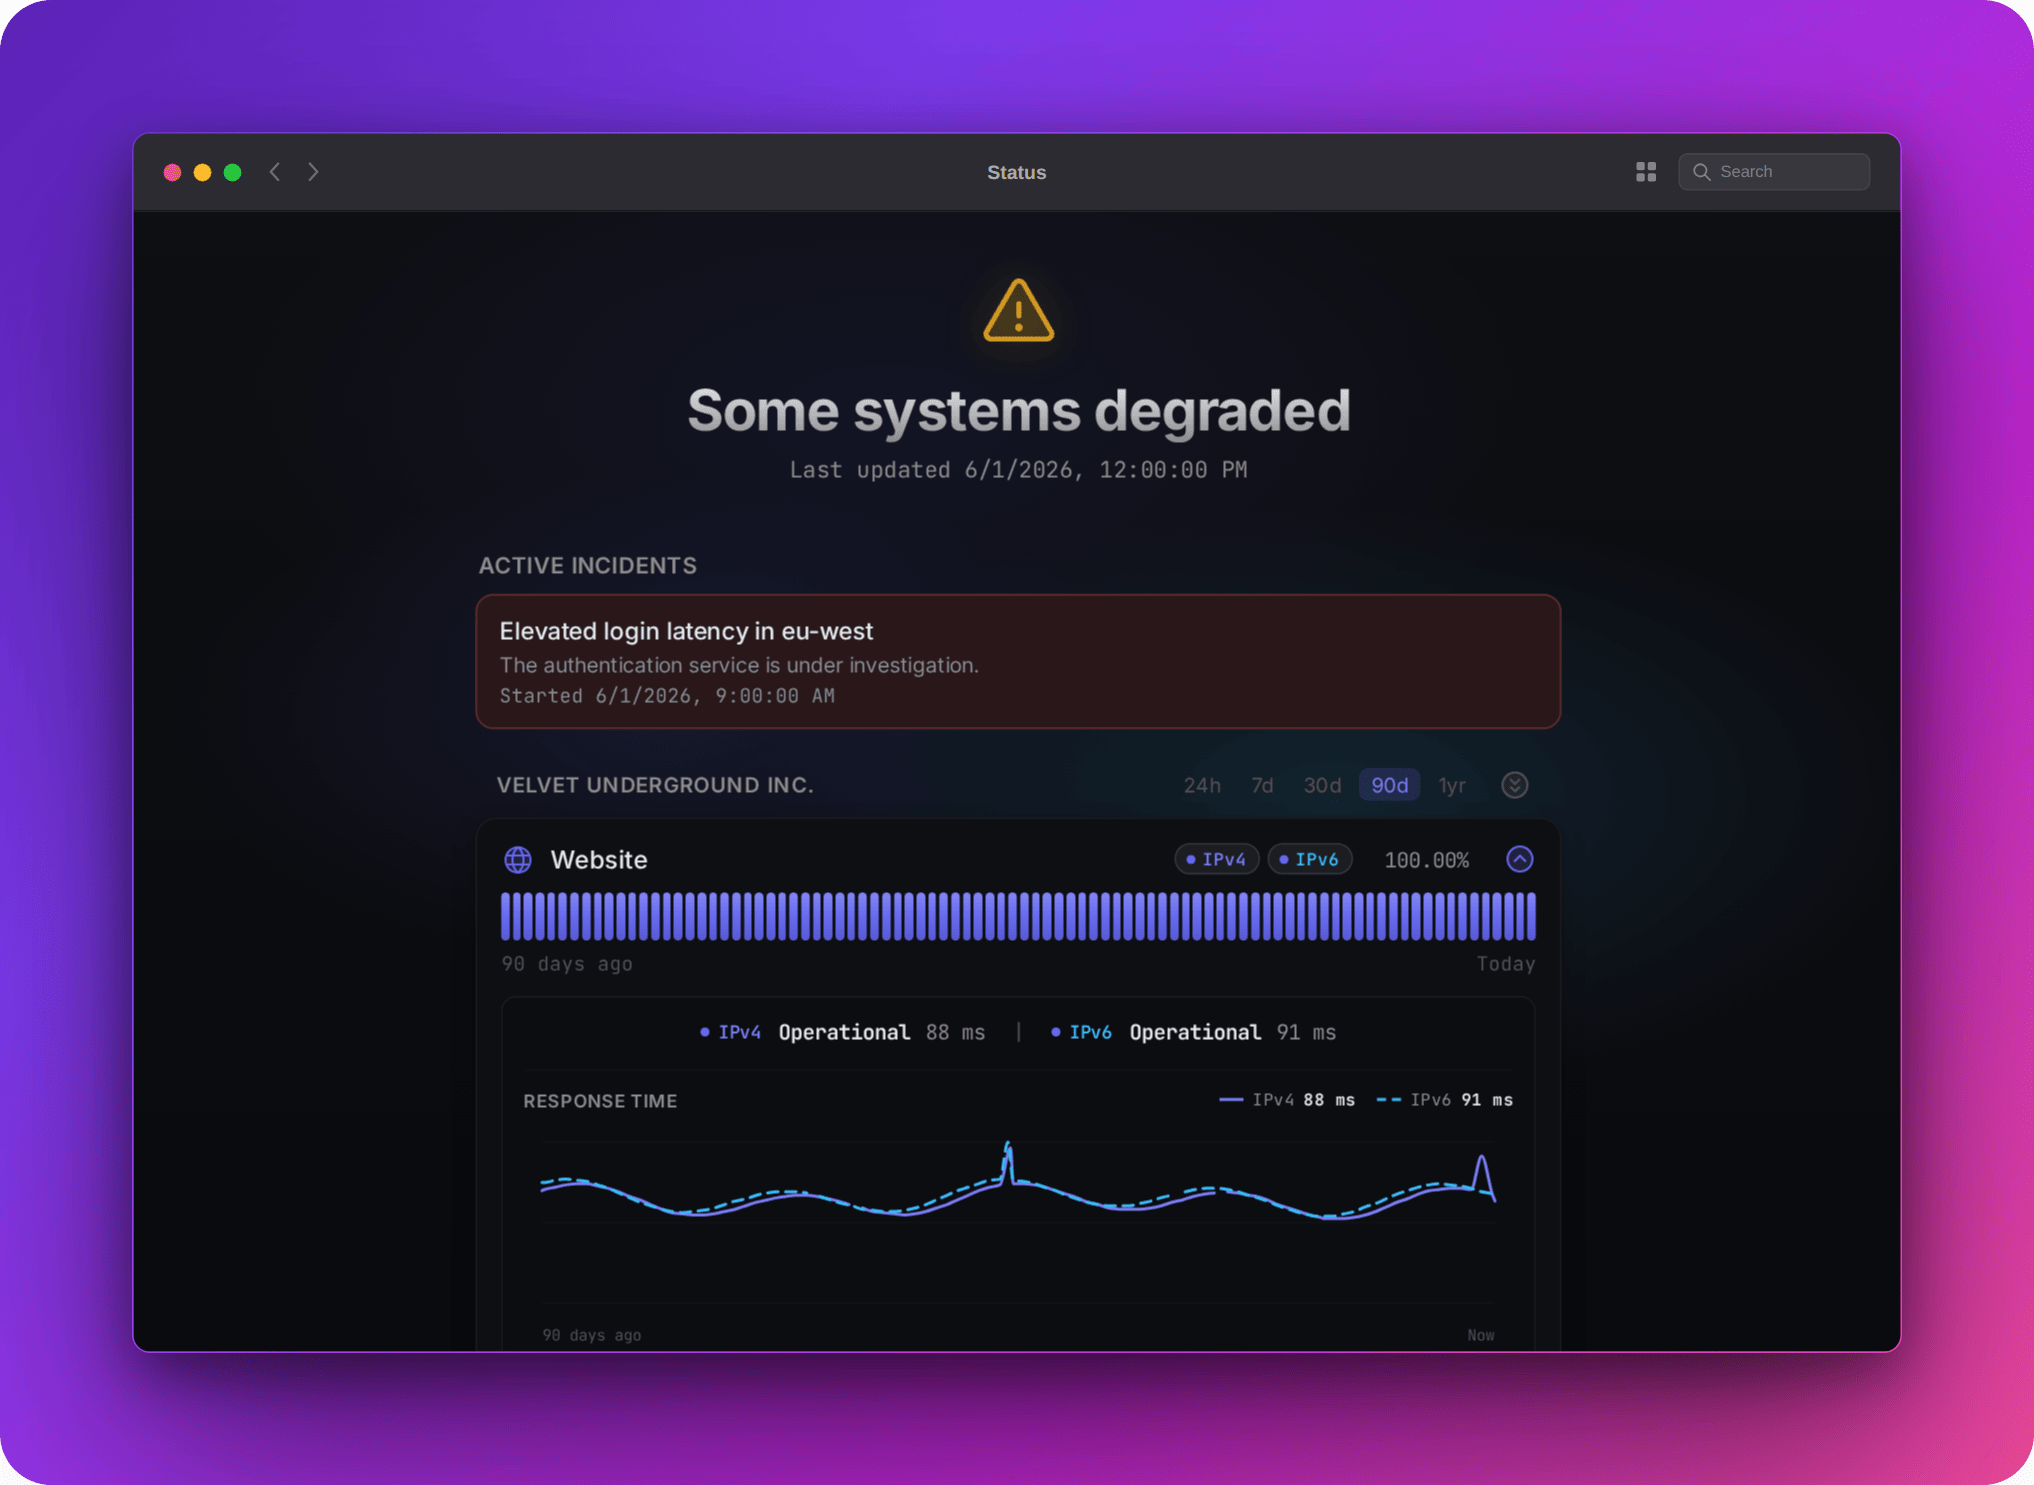
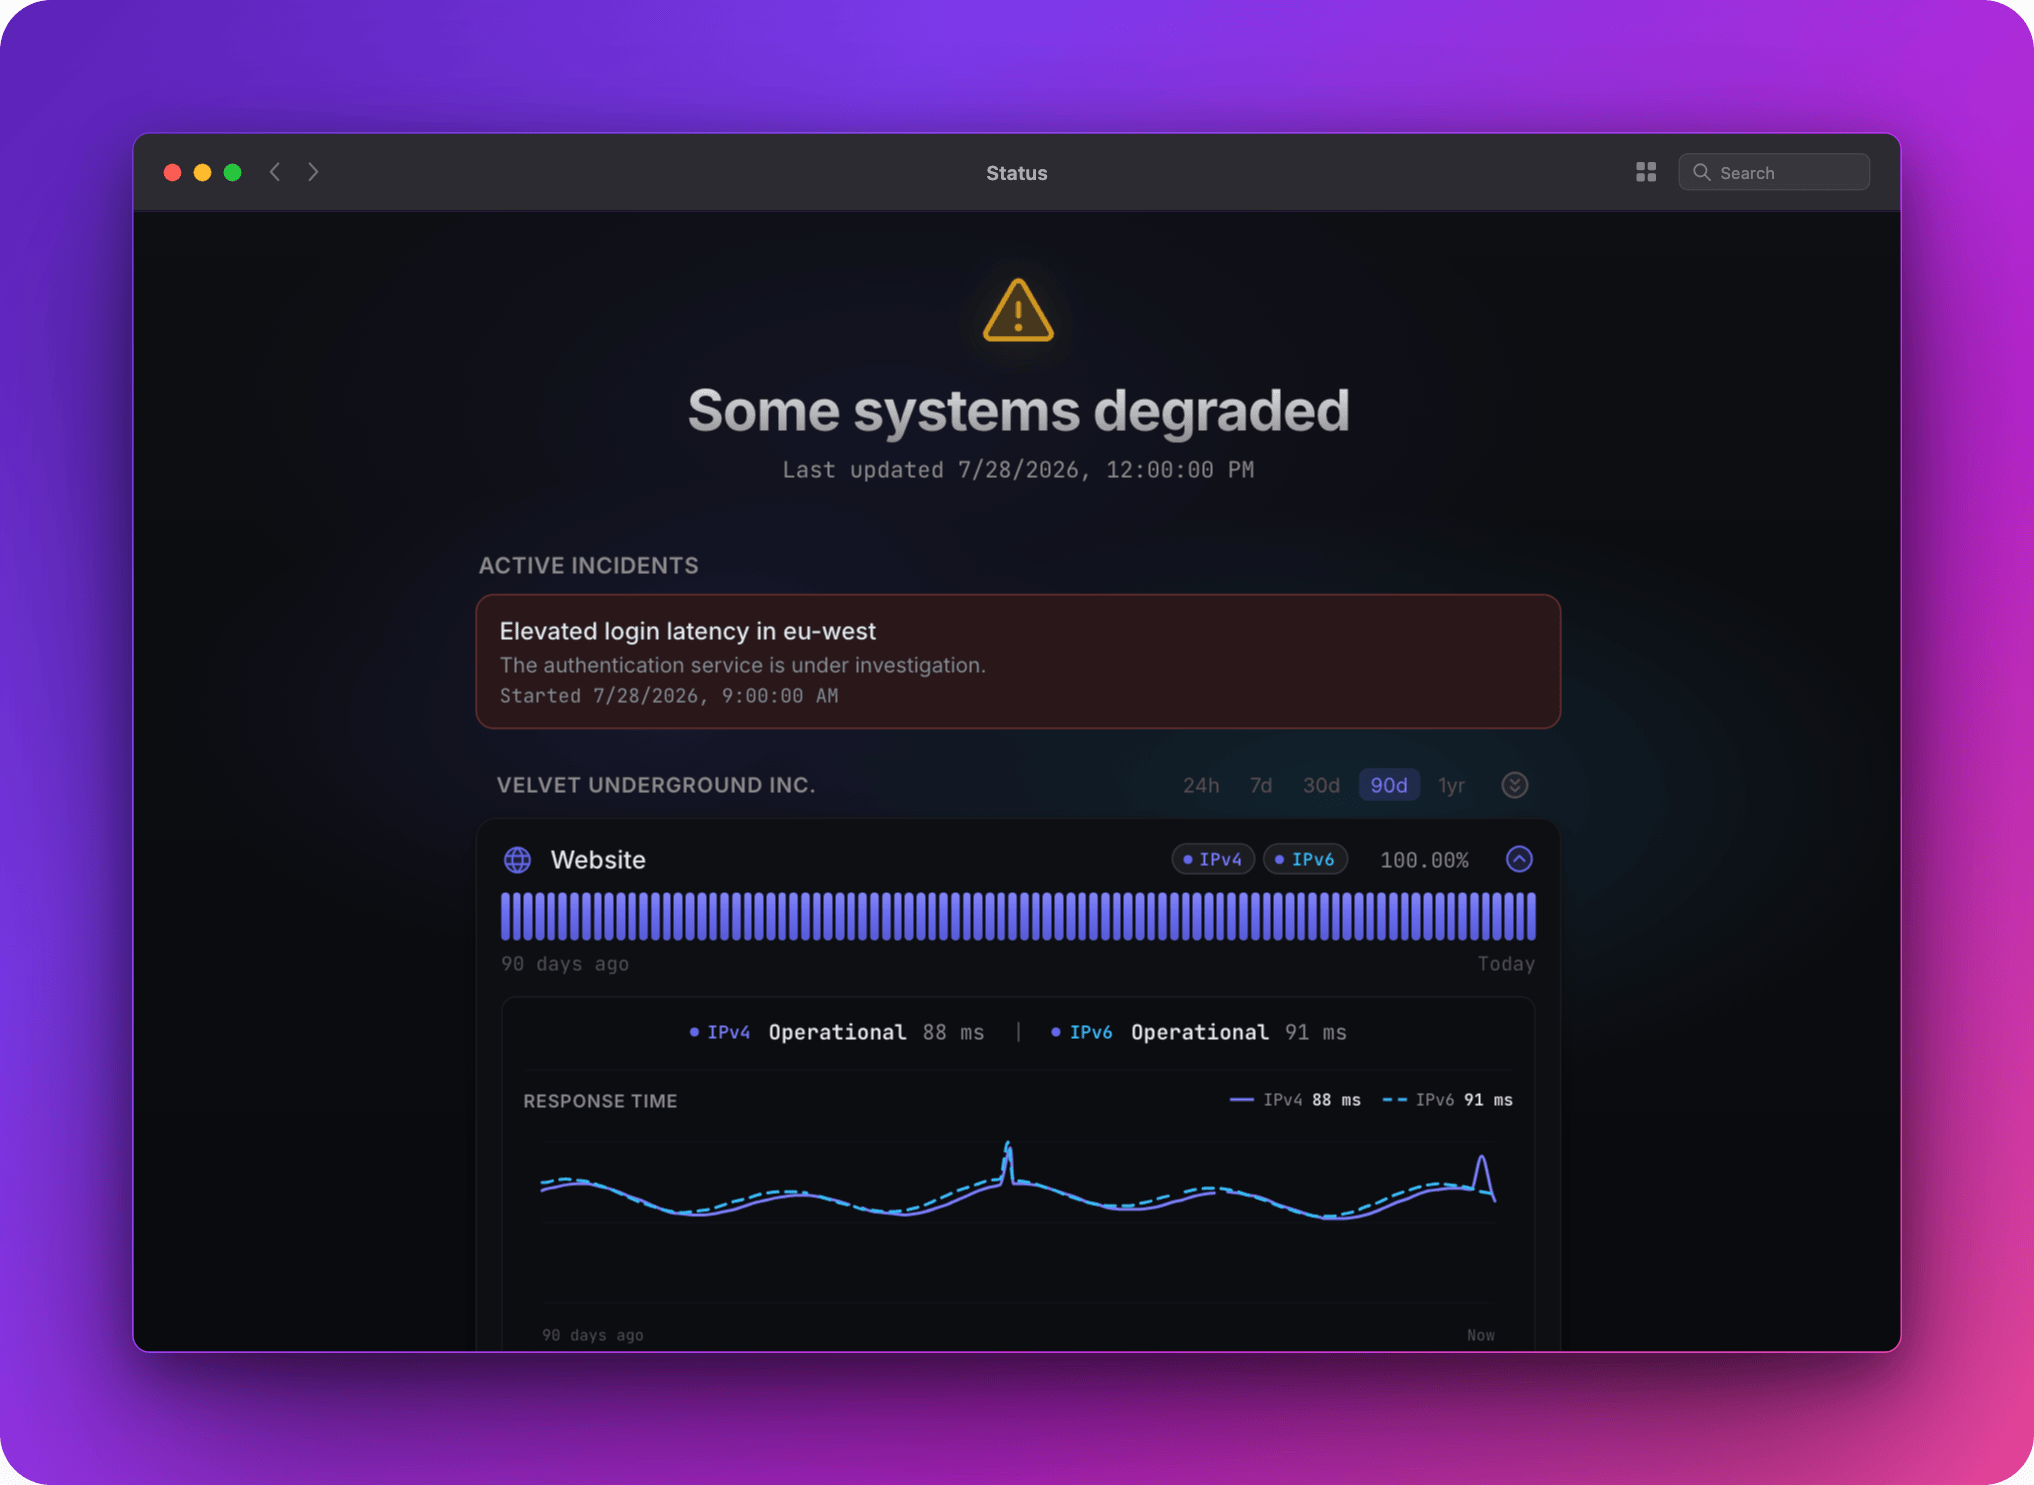
Fix: stabilize milestone release checks
- keep workflow changes inside the sync trigger contract
- align stale theme, chart, and slider expectations
- pin deterministic screenshot generation to UTC

diff --git a/site/test/build-scripts.test.ts b/site/test/build-scripts.test.ts
@@ -44,6 +44,16 @@ test("builds status-page assets relative to the deployed Pages path", async () =
   assert.doesNotMatch(html, /(?:src|href)="\/(?:assets\/|favicon\.ico)/);
 });
 
+test("pins the deterministic screenshot browser to UTC", async () => {
+  const screenshot = await readFile(
+    resolve(siteRoot, "scripts/screenshot.mjs"),
+    "utf8",
+  );
+
+  assert.match(screenshot, /clock\.setFixedTime/);
+  assert.match(screenshot, /timezoneId:\s*"UTC"/);
+});
+
 test("generated runtime config points to Velvet repository data", async () => {
   const directory = await mkdtemp(resolve(tmpdir(), "velvet-config-"));
   const input = resolve(directory, ".upptimerc.yml");

diff --git a/actions/sync-data/test/metadata.test.ts b/actions/sync-data/test/metadata.test.ts
@@ -46,7 +46,12 @@ test("reference workflow serializes with Upptime and cannot trigger itself", asy
     group: "${{ github.repository }}-${{ github.head_ref || github.ref_name }}-upptime",
     "cancel-in-progress": false,
   });
-  assert.deepEqual(workflow.on.push.paths, [".upptimerc.yml", "history/**"]);
+  assert.deepEqual(workflow.on.push.paths, [
+    ".upptimerc.yml",
+    "history/**",
+    ".github/workflows/sync-velvet-data.yml",
+    ".github/workflows/velvet.yml",
+  ]);
   assert.deepEqual(workflow.on.issues.types, [
     "opened",
     "closed",

diff --git a/site/test/slider.test.ts b/site/test/slider.test.ts
@@ -72,7 +72,7 @@ test("uses the compound slider for every configurator range input", async () => 
   const configurator = await source("../src/configurator/Configurator.svelte");
 
   assert.match(configurator, /import \* as Slider from "\.\/slider"/);
-  assert.equal(configurator.match(/<Slider\.Root/g)?.length, 4);
+  assert.equal(configurator.match(/<Slider\.Root/g)?.length, 5);
   assert.equal(configurator.match(/<Slider\.Control tickmarks/g)?.length, 2);
   assert.equal(configurator.match(/<Slider\.Labels/g)?.length, 2);
   assert.match(

diff --git a/site/test/response-time-chart.test.ts b/site/test/response-time-chart.test.ts
@@ -117,10 +117,6 @@ test("renders independently configured line styles and fading fills", async () =
   assert.match(html, /data-protocol="ipv4"[^>]+data-line-style="dotted"/);
   assert.match(html, /data-protocol="ipv6"[^>]+data-line-style="solid"/);
   assert.equal(html.match(/class="series-area(?:\s|")/g)?.length, 2);
-  assert.match(
-    html,
-    /<rect[^>]+class="plot-background[^"]*"[^>]+width="640"[^>]+height="148"/,
-  );
   assert.match(html, /data-response-hover/);
   assert.match(html, /tabindex="0"/);
 });

diff --git a/site/test/config.test.ts b/site/test/config.test.ts
@@ -46,6 +46,8 @@ test("normalises legacy runtime theme fields into the semantic theme", async () 
     ipv4LineStyle: "dotted",
     ipv6LineStyle: "solid",
     fill: true,
+    background: "#0a0b0f",
+    backgroundOpacity: 0,
   });
   assert.equal(config.theme.fontMono, "Example Mono");
 });
